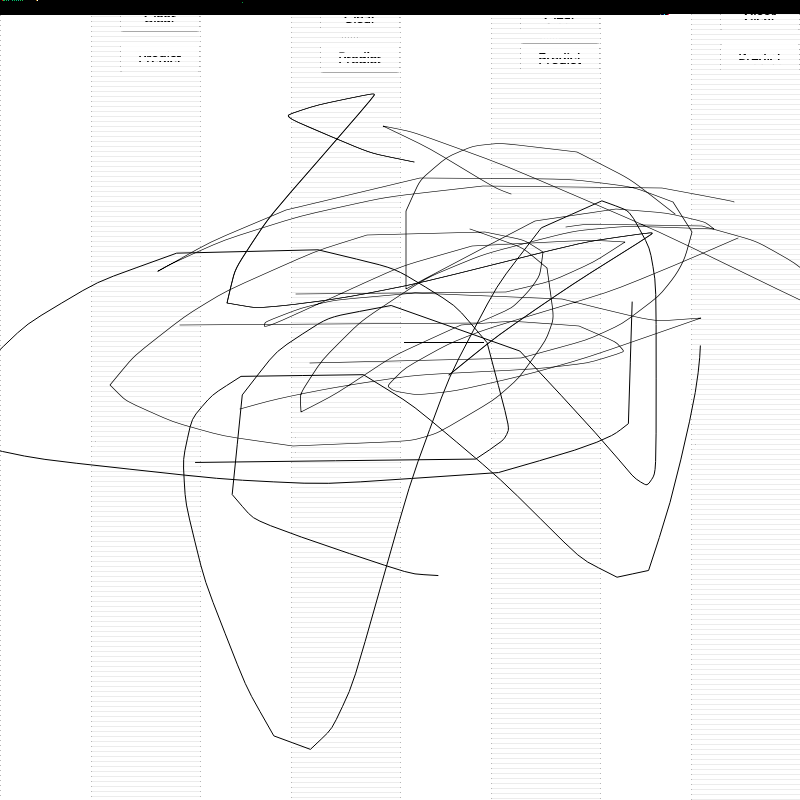
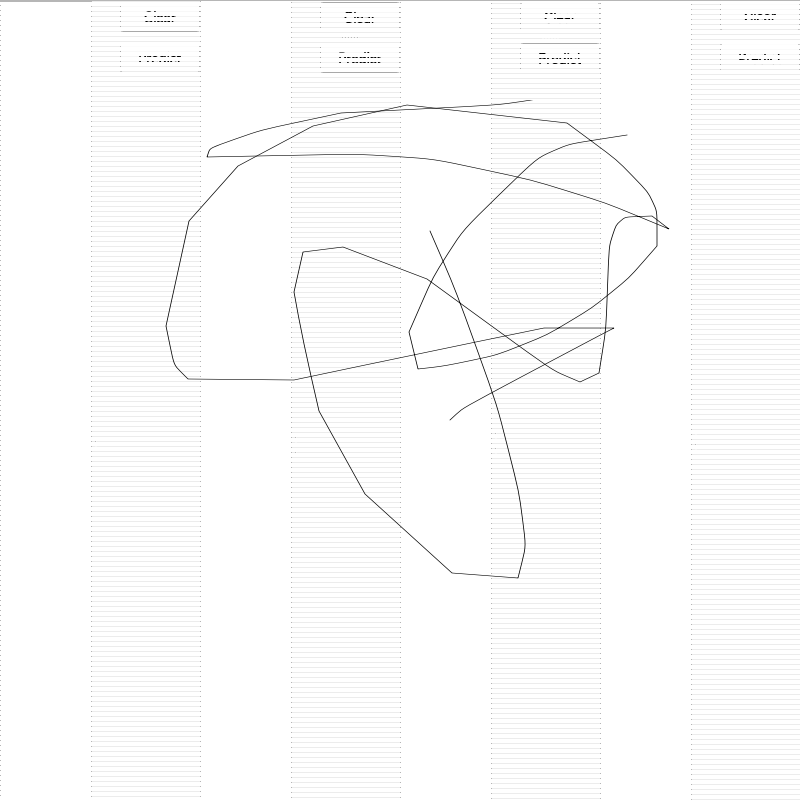
Hilala pas doux

diff --git a/FreeHandTool/quick_draw_gui.py b/FreeHandTool/quick_draw_gui.py
@@ -114,12 +114,14 @@ class MainWindow(QMainWindow):
     def __init__(self, *args):
         QMainWindow.__init__(self, *args)
 
-        self.image_width = 800     
+        self.image_width = 800
         self.image_height = 800
+        self.start_width = 100
+        self.start_height = 100
         
         self.scene = DiagramScene()
         self.view = GraphicsView(self.scene)
-        rect = QRectF(0, 0, self.image_width, self.image_height)
+        rect = QRectF(self.start_width, self.start_height, self.image_width, self.image_height)
         self.view.fitInView(rect)
         self.view.setSceneRect(rect)
         self.setCentralWidget(self.view)
@@ -156,12 +158,13 @@ class MainWindow(QMainWindow):
         # TODO Do forward pass and generate predictions graph
         # Image extraction from drawing window
         outputimg = QPixmap(self.image_width, self.image_height)
+        QPixmapCache.clear()
         
         painter = QPainter(outputimg)
         painter.setRenderHint(QPainter.Antialiasing)
-        targetrect = QRectF(0, 0, self.image_width, self.image_height)
-        sourcerect = QRectF(0, 0, self.image_width, self.image_height)
-        self.scene.render(painter, targetrect, sourcerect)
+        targetrect = QRectF(self.start_width, self.start_height, self.image_width, self.image_height)
+        sourcerect = QRect(self.start_width, self.start_height, self.image_width, self.image_height)
+        self.view.render(painter, targetrect, sourcerect)
         outputimg.save("test.png", "PNG")
         
         painter.end()
@@ -190,7 +193,7 @@ def main(args):
     app = QApplication(args)
     app.setStyle(QStyleFactory.create("Fusion"))  # fixes gtk assertion errors
     mainWindow = MainWindow()
-    mainWindow.setGeometry(0, 0, 1000, 1000)
+    mainWindow.setGeometry(100, 100, 1000, 1000)
     mainWindow.show()
 
     sys.exit(app.exec_()) # Qt Main loop
